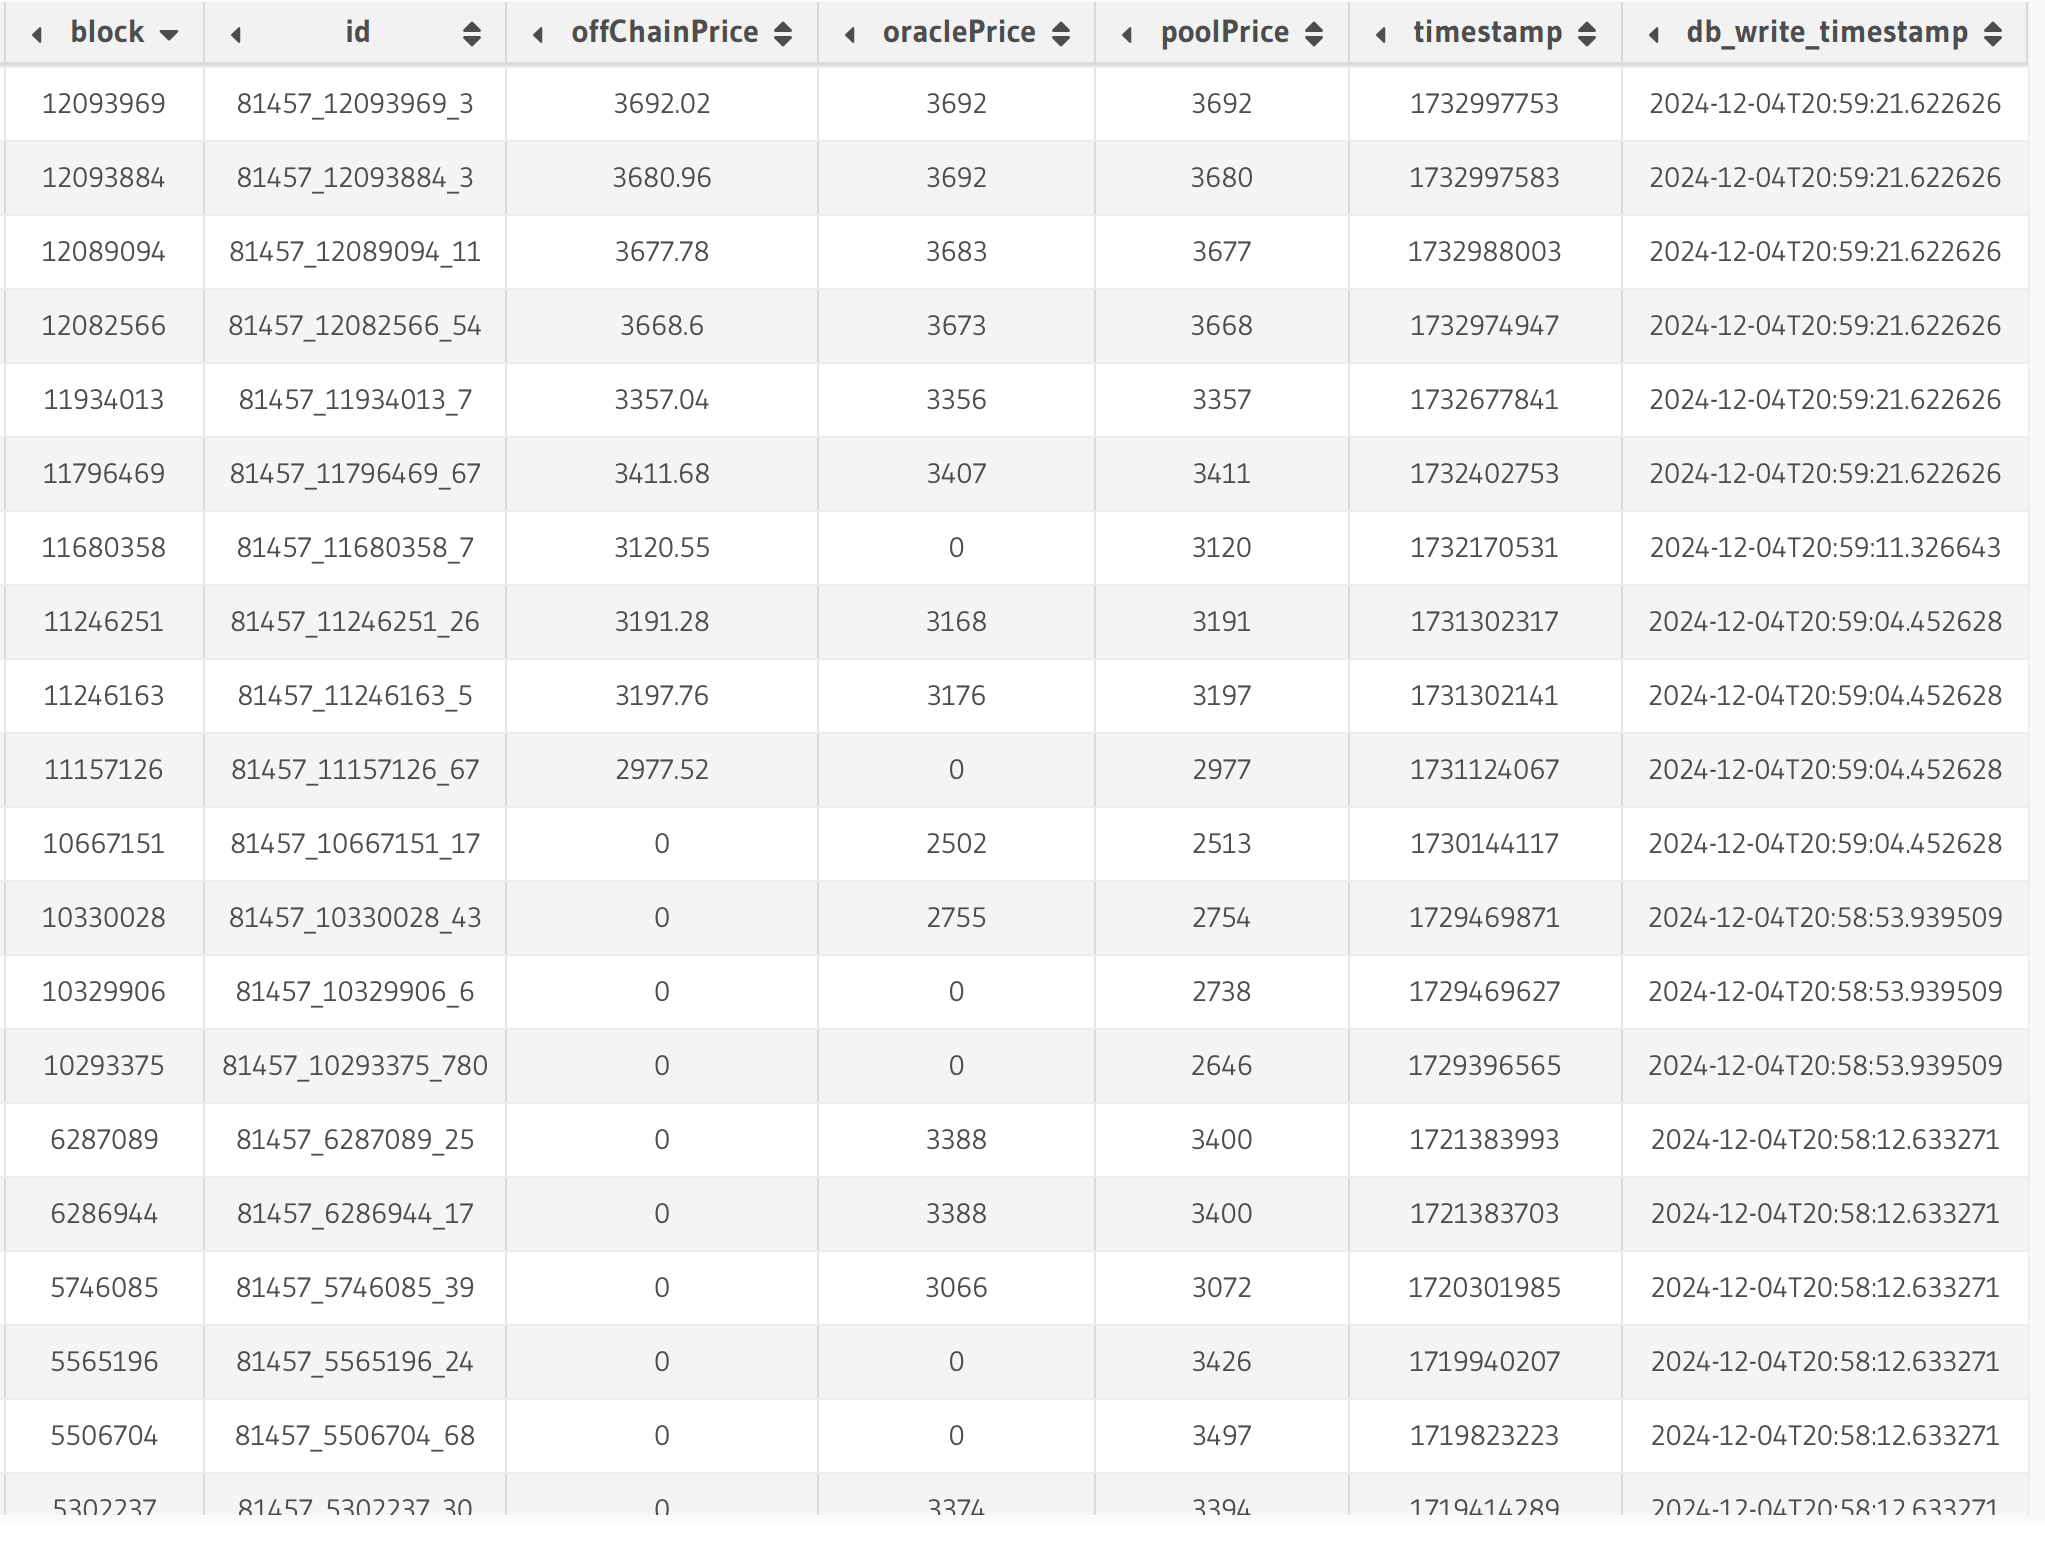
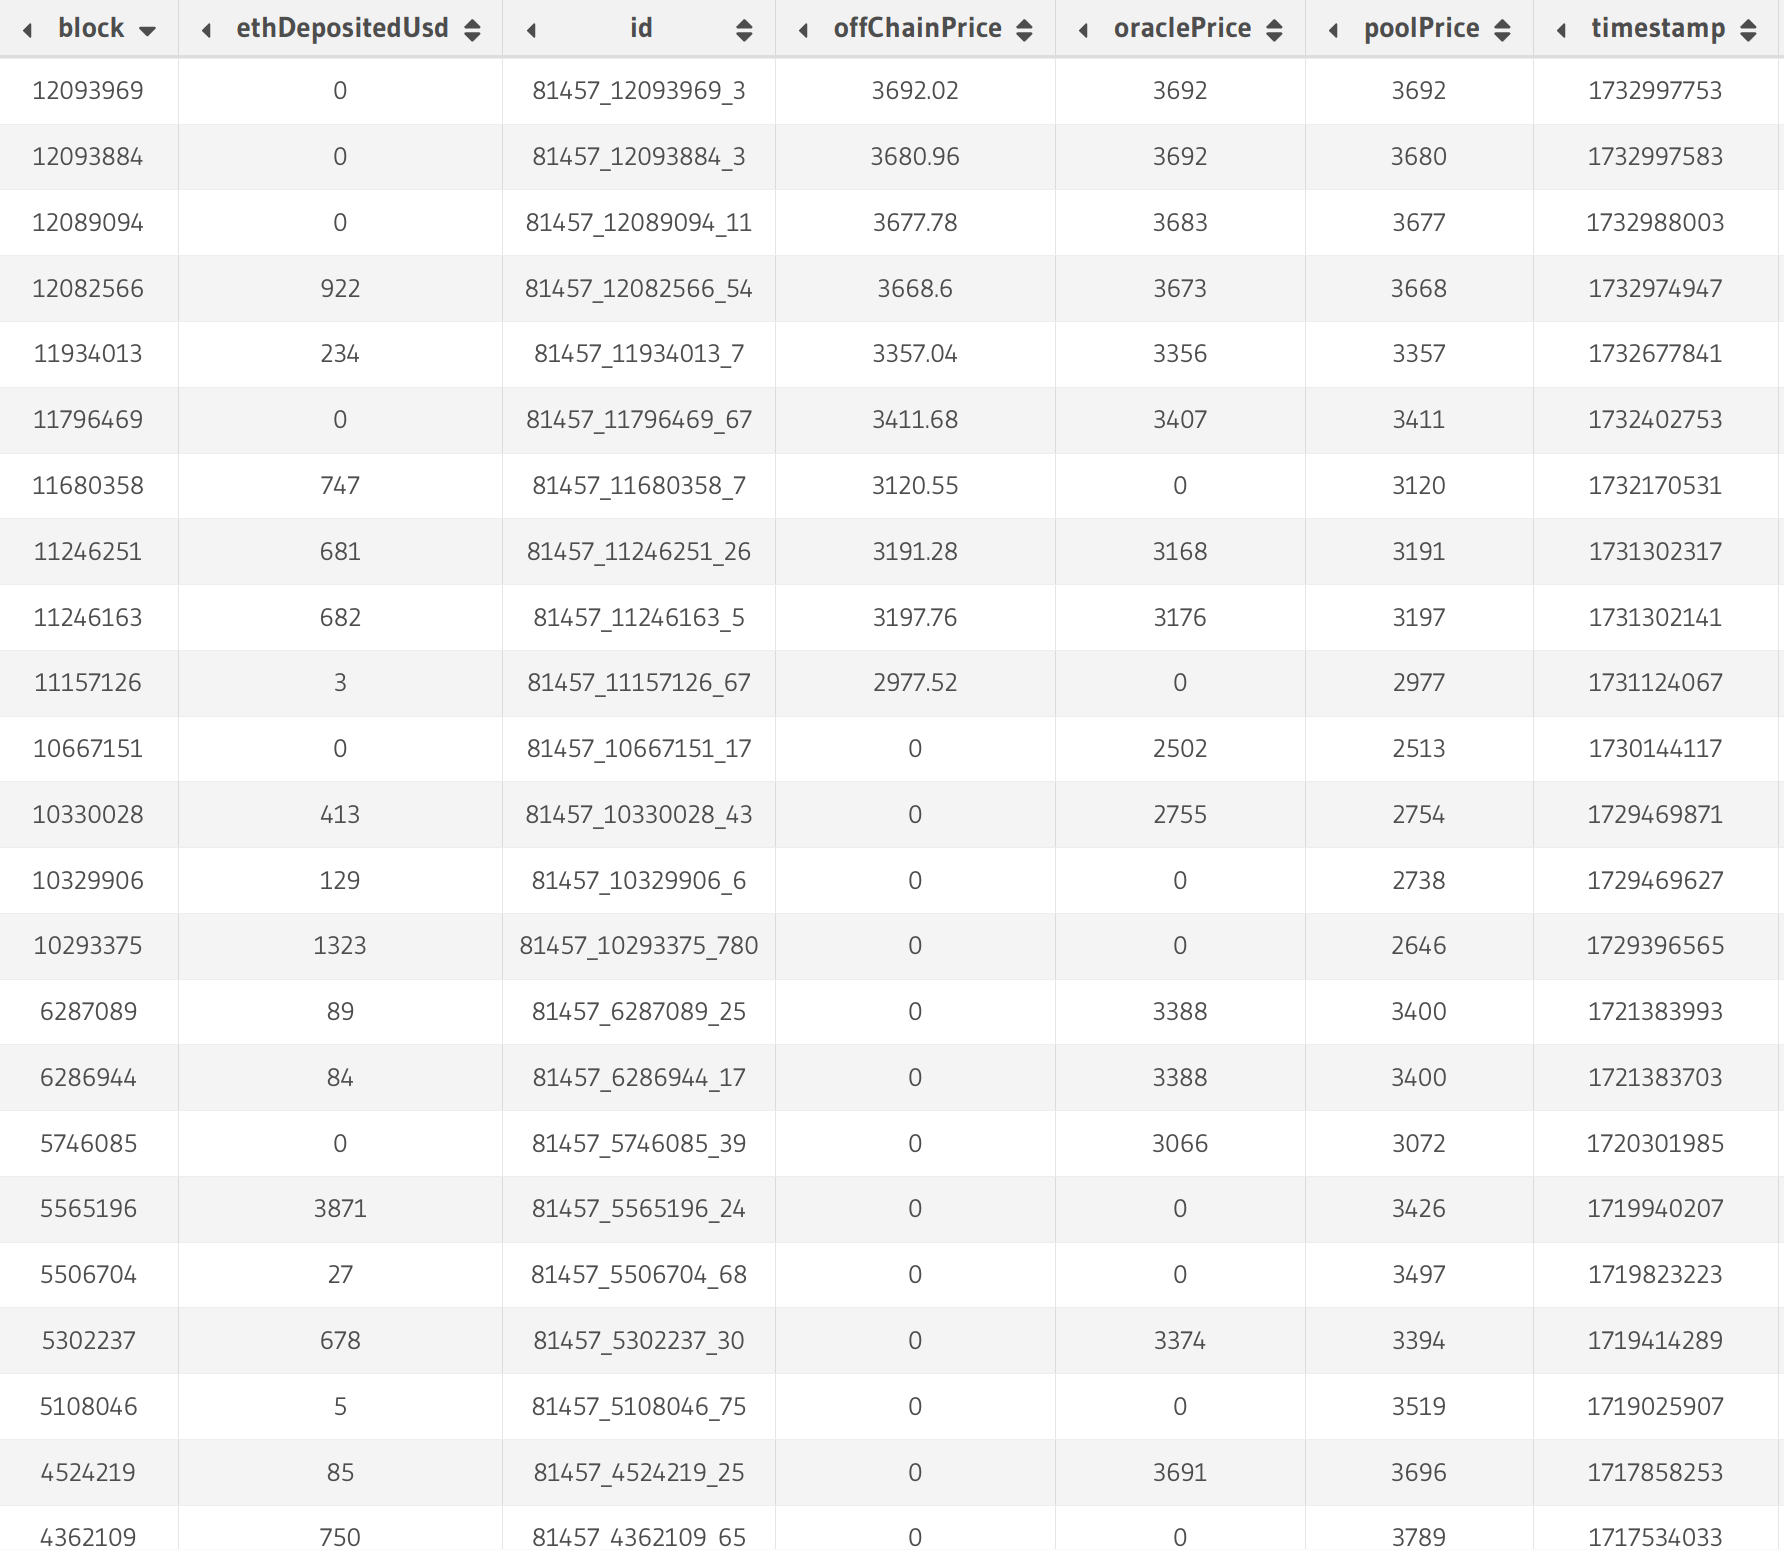
proof read

diff --git a/sidebarsHyperIndex.js b/sidebarsHyperIndex.js
@@ -30,6 +30,7 @@ module.exports = {
         "Guides/ipfs",
         "Guides/cli-commands",
         "Guides/contract-state",
+        "Guides/price-data"
       ],
     },
     {

diff --git a/docs/HyperIndex/Guides/price-data.md b/docs/HyperIndex/Guides/price-data.md
@@ -7,43 +7,44 @@ slug: /price-data
 
 # Getting price data in your indexer
 
-There are many applications where you may want to get price data in your indexer. For example, you may want to use price data to calculate the value of a token in a specific currency e.g. to calculate the value of an eth transfer in usd. However, the relevant event may not contain the price data you need. In this case, we have 3 different way to get price data inside the indexer:
+There are many applications where you may want to get price data in your indexer. For example, you may want to use price data to calculate the value of historical token transfers or the TVL of a Uniswap pool over time. However, the relevant events to be indexed may not contain the price data you need. In this case, we have 3 different way to get price data inside the indexer:
 
-1. oracles
-2. dex pools
-3. offchain api
+1. Oracles
+2. Dex pools
+3. Offchain API
 
-Each of these methods has its own pros and cons and we will analyze each through the metrics of accuracy, centralization, and data availability. In this guide, we will go through each of these methods and explain how to use them in a simple indexer to get the USD value of an ETH transfer. We will be using the `blast` blockchain however the same principles apply to any other EVM blockchain.
+Each of these methods has its own pros and cons and we will analyze each through the metrics of accuracy, centralization, and data availability. We will also go through each of these methods and explain how to use them in a simple indexer to get the USD value ETH deposits into a Uniswap V3 liquidity pool. We will be using the [Blast](https://blastscan.io/) blockchain however the same principles apply to any other EVM blockchain.
 
 ## Oracles
 
 Oracles are a type of service that provide offchain data to the blockchain. This is usually price-data but has no limitations and can be anything from odds for a sports-betting dApp to random numbers which can be used for a lottery. One such oracle which we will use here is [API3](https://api3.org/) which currently only focuses on price feeds.
 
-To find the relevant ETH/USD price update events using API3, we can do the following: 
+To find the relevant ETH/USD price update events using API3: 
 
-- The events we care about are emitted on the Api3ServerV1 contract at [0x709944a48cAf83535e43471680fDA4905FB3920a](https://github.com/api3dao/contracts/blob/main/deployments/blast/Api3ServerV1.json#L2) on Blast, which you can find in the `@api3/contracts`. The events are emitted with data feed IDs and not dAPI names, so we need to look up what data feed ID the particular dAPI name is set to:
[3 lines of base64/hex data omitted]
+- The events we care about are emitted on the Api3ServerV1 contract at [0x709944a48cAf83535e43471680fDA4905FB3920a](https://github.com/api3dao/contracts/blob/main/deployments/blast/Api3ServerV1.json#L2) on Blast, which you can find in the `@api3/contracts`. The events are emitted with data feed IDs and not dAPI names, so we need to look up what data feed ID the particular dAPI name is set to.
+
[3 lines of base64/hex data omitted]
 
 Don't worry about the above steps too much as each oracle service will have it's own contracts and events. Just read their documentation or reach out for help on their Discord and you should be able to find the relevant information.
 
 ### Oracle considerations
 
 - **Accuracy**: Due to gas prices, oracles don't push onchain price updates constantly.  Instead, as with API3, the oracle normally only pushes an onchain update at certain price deviations, e.g. 1% or 5%. This means that the latest price pushed from the oracle will not always be the most recent price, although it should be close.
-- **Centralization**: This will vary from oracle to oracle. API3 runs price feeds from their own API's which means they have a higher degree of centralization. However, this allows them to provide a higher level of security and trustworthiness. Chainlink lets anyone run their own node and provide their own price feeds, which means they are more decentralized. There are some trustworthiness concerns associated with this decentralization but they have reputation and punishment mechanisms to mitigate this.
+- **Centralization**: This will vary from oracle to oracle. API3 runs price feeds from their own API's which means they have a higher degree of centralization. However, this allows them to provide a higher level of security and trustworthiness. Chainlink lets anyone run their own node and provide their own price feeds, which means they are more decentralized. There are some trustworthiness concerns associated with this decentralization but they have reputation and punishment mechanisms as a mitigation.
 - **Data availability**: For security reasons, orcales often choose to limit the price feeds they support to pairs with high liquidity, volume, and trustworthiness. This means that you may not be able to get price data for all tokens, especially newer, low marketcap tokens.
 
 In terms using oracle price feeds in your indexer, you will have to rely on the latest price pushed onchain, which may not be accurate to a certain deviation. However, this is very fast as you can get the price data directly from the event without any rpc calls. Use this if speed of indexing is more important than accuracy.
 
 ## Dex pools
 
-Dex pools are a type of smart contract that allows users to swap tokens with each other. The price of the token is determined by the ratio of the two tokens in the pool. Uniswap is the most popular dex on Ethereum and has a large number of tokens listed on many chains, including the blast chains. The main stable coin on Blast is USDB at `0x4300000000000000000000000000000000000003` while WETH is at `0x4300000000000000000000000000000000000004`. To get the Uniswap pool address programmically, we can use the following script:
+Dex pools are a type of smart contract that allows users to swap tokens with each other. Uniswap is the most popular dex and has a large number of tokens listed on many chains, including on Blast. The main stable coin on Blast is USDB at `0x4300000000000000000000000000000000000003` while WETH is at `0x4300000000000000000000000000000000000004`. To get the Uniswap pool address programmically, we can use the following script:
 
 > src/getUniswapPool.ts
 
 :::info
-You can also manually use [blastscan read contract functions](https://blastscan.io/address/0x792edAdE80af5fC680d96a2eD80A44247D2Cf6Fd#readContract#F2) to arrive at the same result.
+You can also manually use the `getPool` function on [blastscan](https://blastscan.io/address/0x792edAdE80af5fC680d96a2eD80A44247D2Cf6Fd#readContract#F2) to arrive at the same result.
 :::
 
 ```typescript
@@ -75,13 +76,11 @@ const factoryContract = getContract({
 })();
 ```
 
-The resulting pool address for USDB/WETH is `0xf52B4b69123CbcF07798AE8265642793b2E8990C`. You can use this address to get the price data from the dex pool. The relevant event for Uniswap v3 pools is the `Swap` event which contains the price data in the `sqrtPriceX96` field. To convert this to a price, there is a simple calculation that needs to be made which you can see in the [analysis](#analysis) section.
+The resulting pool address for USDB/WETH is `0xf52B4b69123CbcF07798AE8265642793b2E8990C`. You can use this address to get the price data from the dex pool. The relevant event for Uniswap v3 pools is the `Swap` event which contains the price data in the `sqrtPriceX96` field. To convert this to a price, there is a simple calculation that needs to be made which you can see in the [event handler](#event-handler) section.
 
 ### DEX pool considerations
 
-- **Accuracy**: Dex pools rely on arbitraguers to keep prices in line with the market. For high liquidity pools, this is usually not a problem and the price can be taken to be reliable, with rare exception. However, for low liquidity pools, the price can change drastically with a single trade and the incentive for arbitraguers to keep the price in line is lower, which can lead to price manipulation. 
-
-This means that the price you get from a dex pool may not be the same as the price you would get on a centralized exchange.
+- **Accuracy**: Dex pools rely on arbitraguers to keep prices in line with the market. For high liquidity pools, this is usually not a problem and the price can be taken to be reliable, with rare exception. However, for low liquidity pools, the price can change drastically with a single trade and the incentive for arbitraguers to keep the price in line is lower, which can lead to price manipulation. This means that the price you get from a dex pool may not be the same as the price you would get on a centralized exchange.
 - **Centralization**: The price you get from a dex pool cannot be controlled by any single entity and is therefore more decentralized than an oracle. However, price manipulation is a risk as aforementioned.
 - **Data availability**: Popular dexs have a lot of tokens listed and using the dex pool events you can get the price feeds for most, if not all tokens listed on the dex. However, not all tokens, will be in a pool be in a pool with a stable coin such as USDC. For example, on Ethereum, many newer tokens are only listed in pools with ETH. In this case, you would have to follow a two step process to get the price of the token in USD: First, get the price of the token in ETH and then get the price of ETH in a stablecoin. Also note that stablecoins are not totally 1:1 with the US dollar and do occasionally from their peg, although this is rare and can be ignored in most cases, especially with trusted stablecoins like USDC, USDT, and DAI.
 
@@ -122,8 +121,8 @@ export default fetchEthPrice;
 ### Offchain API considerations
 
 - **Accuracy**: This is the most accurate and reliable to get price data in your indexer as you can make an rpc call to get the very latest USD price. Some APIs, such as CoinGecko, aggregate price data from many different sources so price feed manipulation is highly unlikely. The only real risk you run is if the API goes down or sufferes manipulation, which is very rare for reputable APIs.
-- **Centralization**: Offchain APIs are typically controlled by a single entity meaning they are very centralized. This means that you have to trust the API to provide accurate and reliable price data. However, as mentioned, reputable APIs are very unlikely to manipulate price data. This is not a concern for most use cases.
-- **Data availability**: Offchain APIs such as CoinGecko provide price feeds for the majority of tokens on the blockchain with real volume. However, they may not have price data for newer, low marketcap tokens. In that case, you may have to rely on dex pools or oracles to get price data. Note that offchain APIs require an rpc call every time you need price data which will **significantly** slow down your indexer. RPC calls will change your indexer from a fast, event-based indexer to a slow, rpc-based indexer that takes hours to run.
+- **Centralization**: Offchain APIs are typically controlled by a single entity meaning they are very centralized. This means that you have to trust the API to provide accurate and reliable price data. However, as mentioned, reputable APIs are very unlikely to manipulate price data. This is not a concern for most users.
+- **Data availability**: Offchain APIs such as CoinGecko provide price feeds for the majority of tokens on the blockchain with real volume. However, they may not have price data for newer, low marketcap tokens. In that case, you may have to rely on dex pools or oracles to get price data. Note that offchain APIs require an rpc call every time you need price data which will **significantly** slow down your indexer. RPC calls will change your indexer from a fast, event-based indexer to a slow, rpc-based indexer that may take hours to run.
 
 Due to the slow nature of RPC calls and the fact that you may need a paid subscription, only use this method if accuracy is of the utmost importance. This will help to speed up your indexer and reduce the cost of rpc calls.
 
@@ -195,6 +194,9 @@ type TVLDollars {
 ```
 
 > src/EventHandlers.ts
+:::info
+We only make RPC calls after block 11,000,000 to keep the demo simple. In a real indexer, you would make the RPC call every time.
+:::
 
 ```typescript
 /*
@@ -242,10 +244,11 @@ UniswapV3Pool.Mint.handler(async ({ event, context }) => {
 
   let offChainPrice=0;
   if (event.block.number > 11000000) {
-    // only fetch price data after block 11000000 to save on rpc calls
     offChainPrice = await fetchEthPrice(event.block.number);
     console.log(offChainPrice);
   }
+
+  const ethDepositedUsd = latestPoolPrice * event.params.amount1 / BigInt(10**18);
 
   const TVLDollars: TVLDollars = {
     id: `${event.chainId}_${event.block.number}_${event.logIndex}`,
@@ -254,14 +257,17 @@ UniswapV3Pool.Mint.handler(async ({ event, context }) => {
     oraclePrice: latestOraclePrice,
     poolPrice: latestPoolPrice,
     offChainPrice: Number(offChainPrice.toFixed(2)),
+    ethDepositedUsd: Number(ethDepositedUsd),
   }
+
 
   context.TVLDollars.set(TVLDollars);
 });
+
 ```
 
 ## Analysis
 
-The main point of comparison is between the `oraclePrice` and the `poolPrice` as the `offChainPrice` was simulated and should match the pool prices. It is evident, that the two prices are typically very close to each other. However, sometimes the oracle price is bad, i.e. it has a value of `0`. The DEX price can never be this as it will always be arbitraged to the (somewhat) correct price.
+The main point of comparison is between the `oraclePrice` and the `poolPrice` as the `offChainPrice` was simulated and should match the pool prices. It is evident, that the two prices are typically very close to each other. However, sometimes the oracle price is bad, i.e. it has a value of `0`. The DEX price can never be bad this as it will always be arbitraged to the (somewhat) correct price. Note that the offChainPrice matches the poolPrice exactly as it was simulated to do so. In reality, it would have a different value.
 
 ![alt text](image.png)
